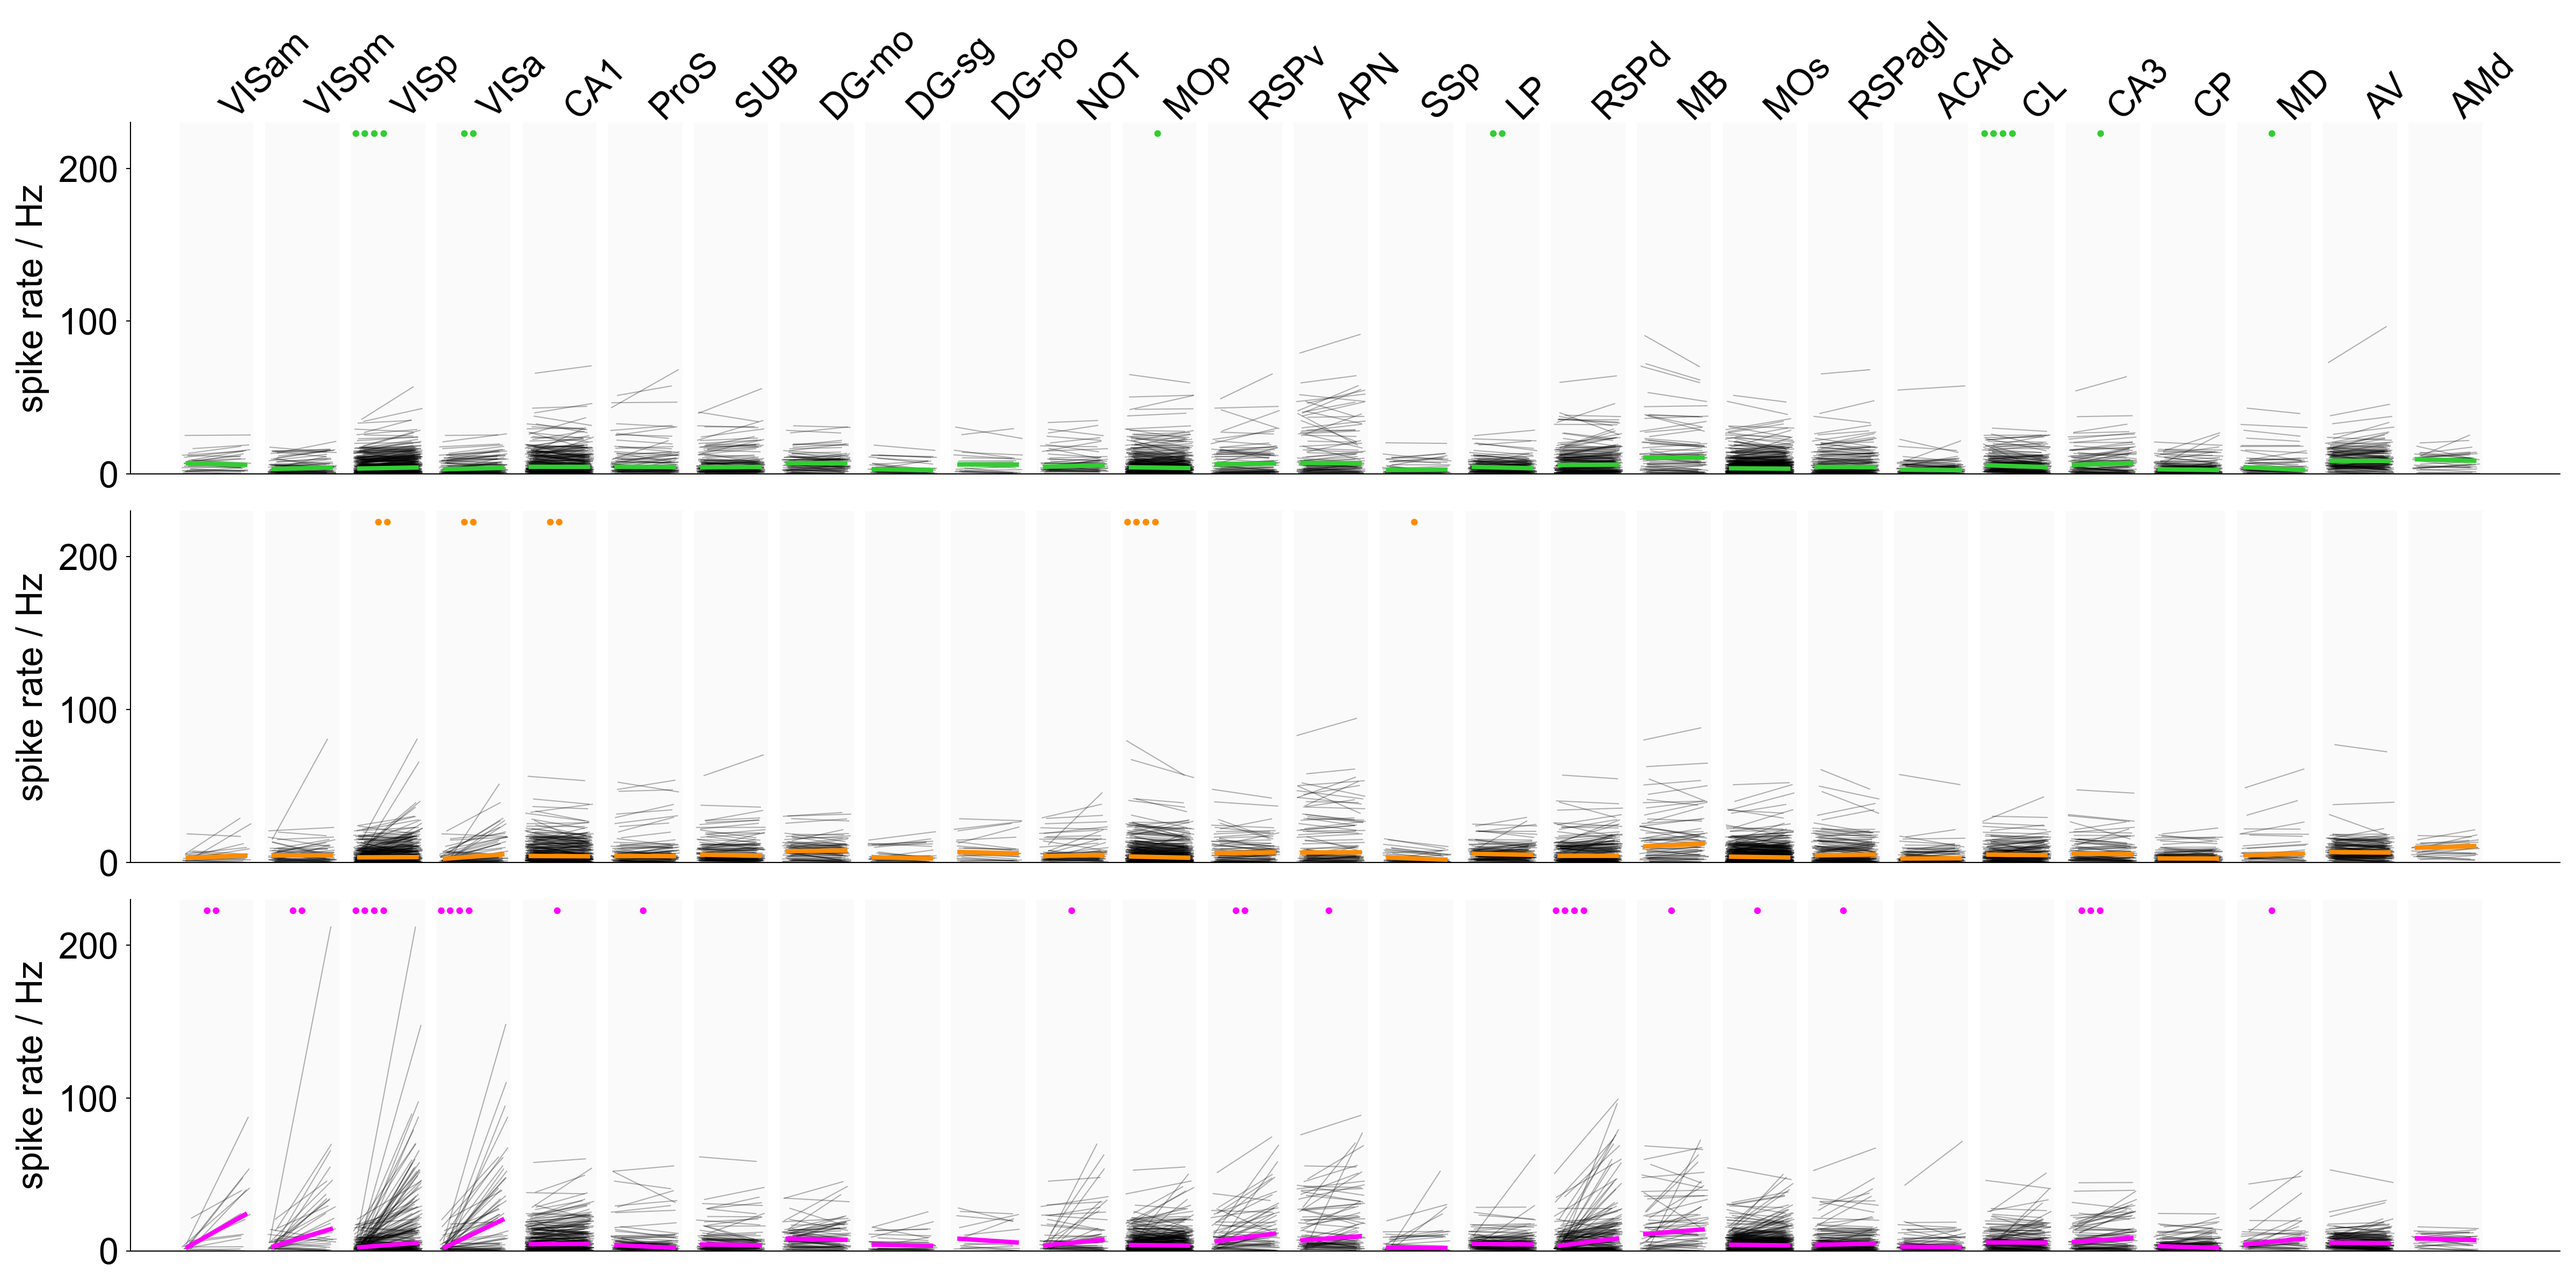
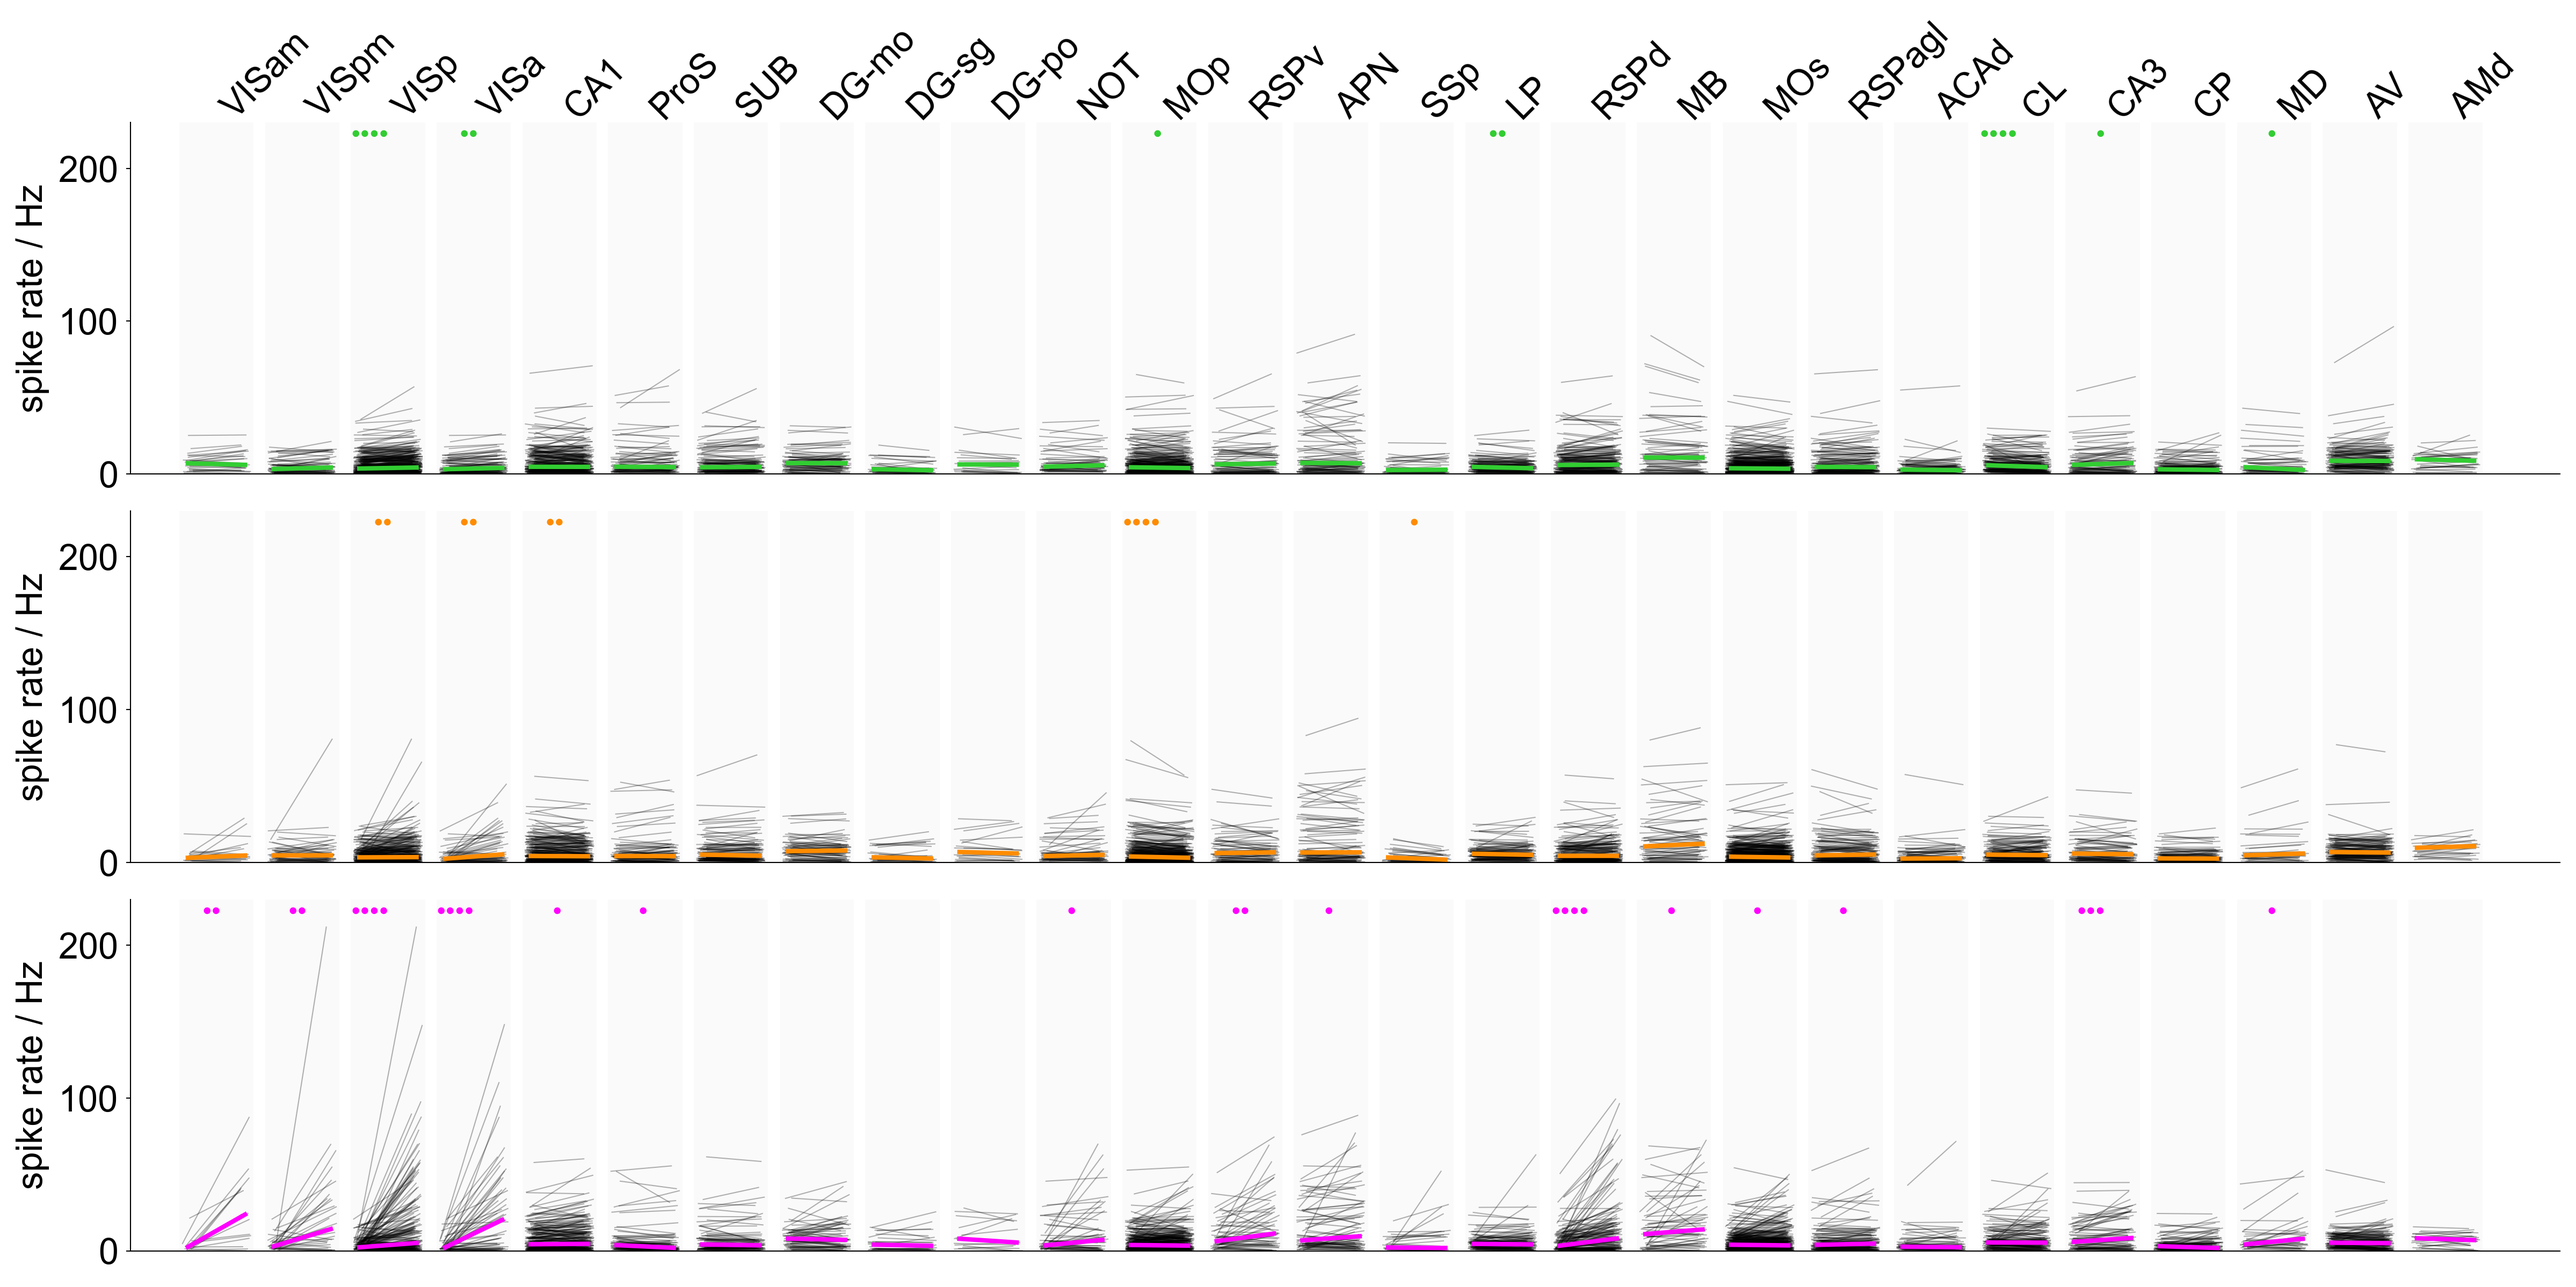
Revert fig4b to one-sample t-test on paired differences
Mann-Whitney U (unpaired) produces near-zero significant areas due to
heavy overlap between pre/stim FR distributions. The paired t-test
correctly leverages within-unit pairing and reproduces the manuscript
significance pattern. The original analysis script's FDR-corrected
annotations were likely generated from a code version that used the
t-test pathway.

diff --git a/src/analysis_transient.py b/src/analysis_transient.py
@@ -17,9 +17,7 @@ from src.data_loading_transient import select_units, get_fr_columns
 def compute_area_fr_stats(df, freq, amplitude, area, eval_window='100ms',
                           pre_col=None, stim_col=None):
     """
-    Paired t-test on within-unit FR difference (stim − pre) for one area.
-
-    Uses one-sample t-test on paired differences (same as Figures 2/3).
+    One-sample t-test on within-unit FR difference (stim − pre) for one area.
 
     Returns
     -------
